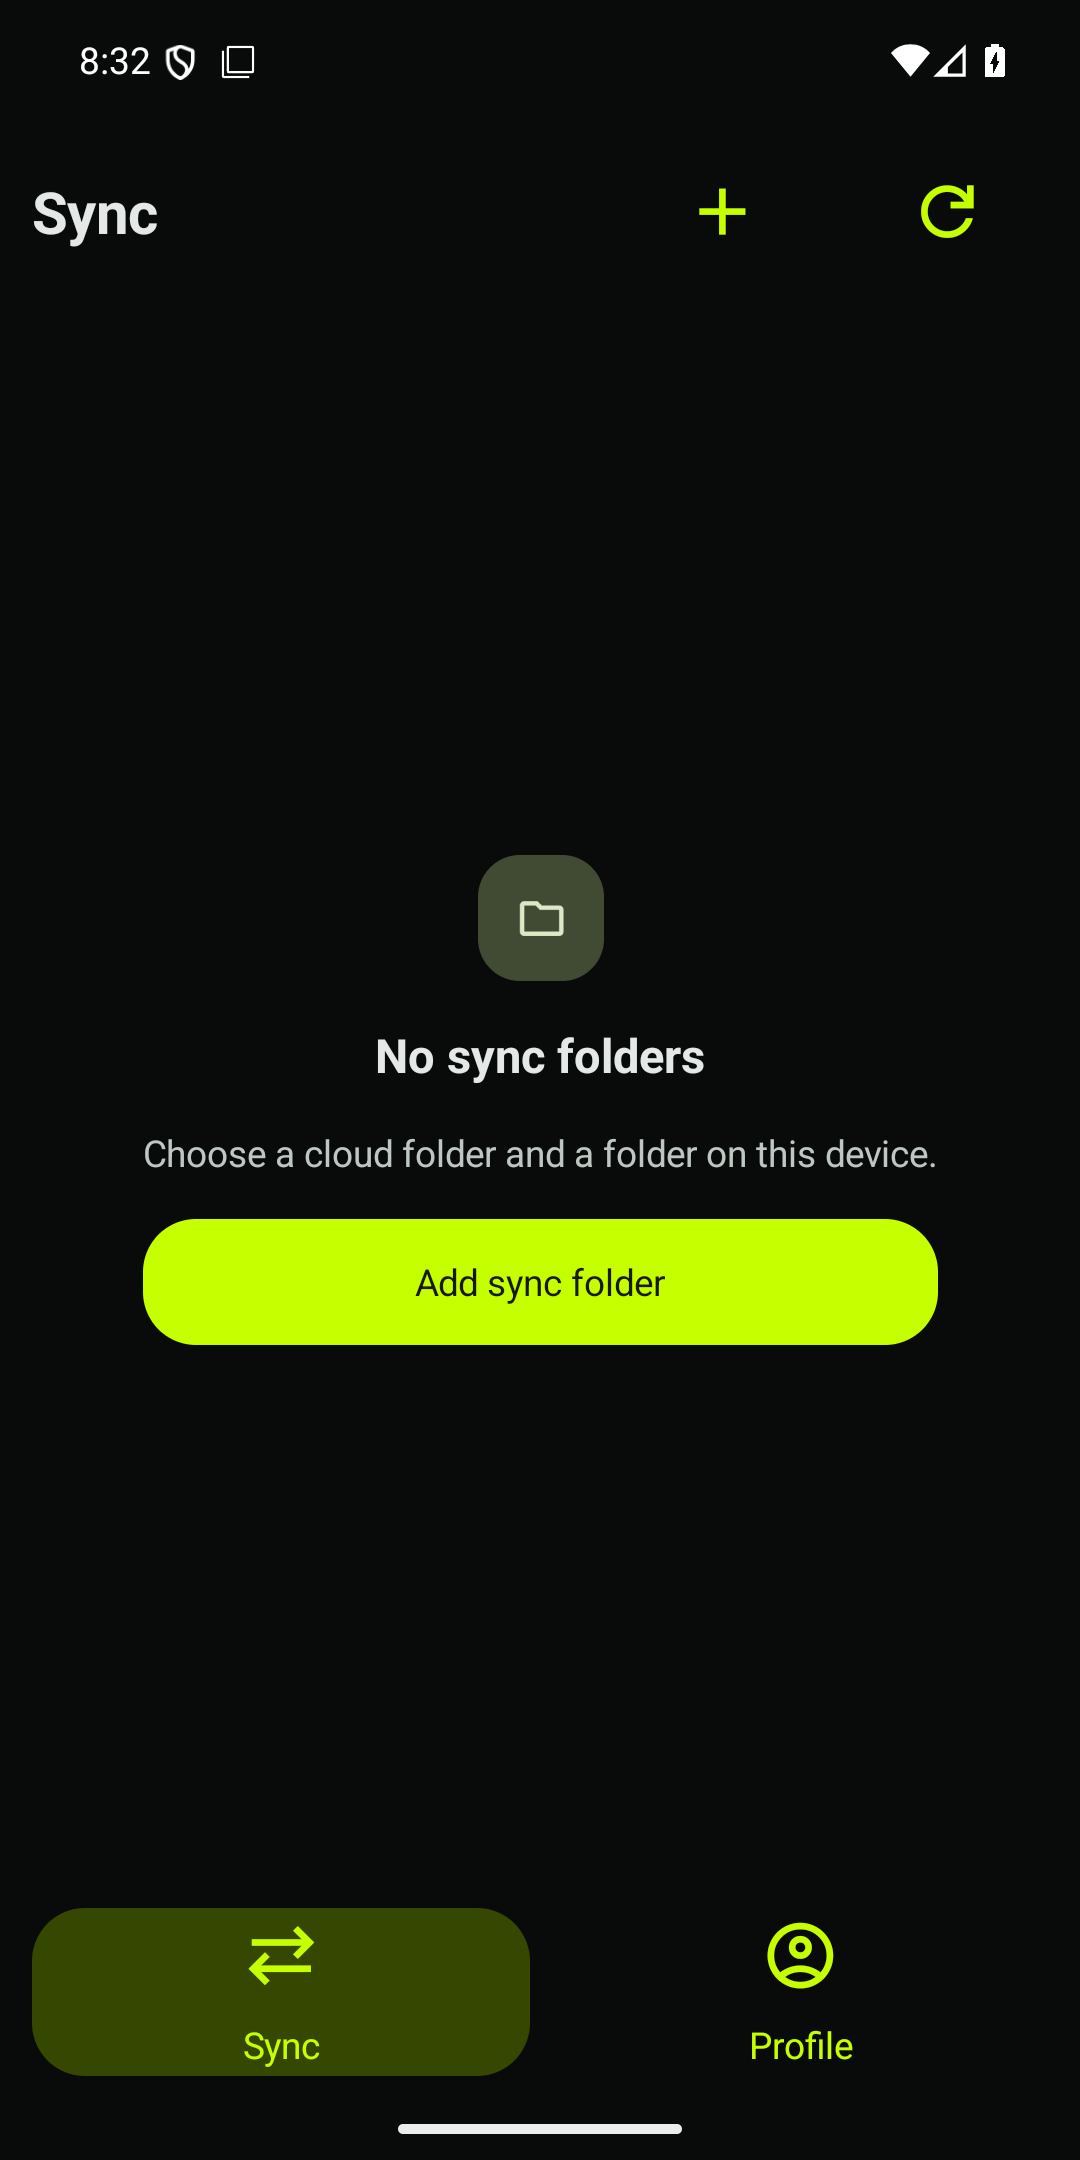
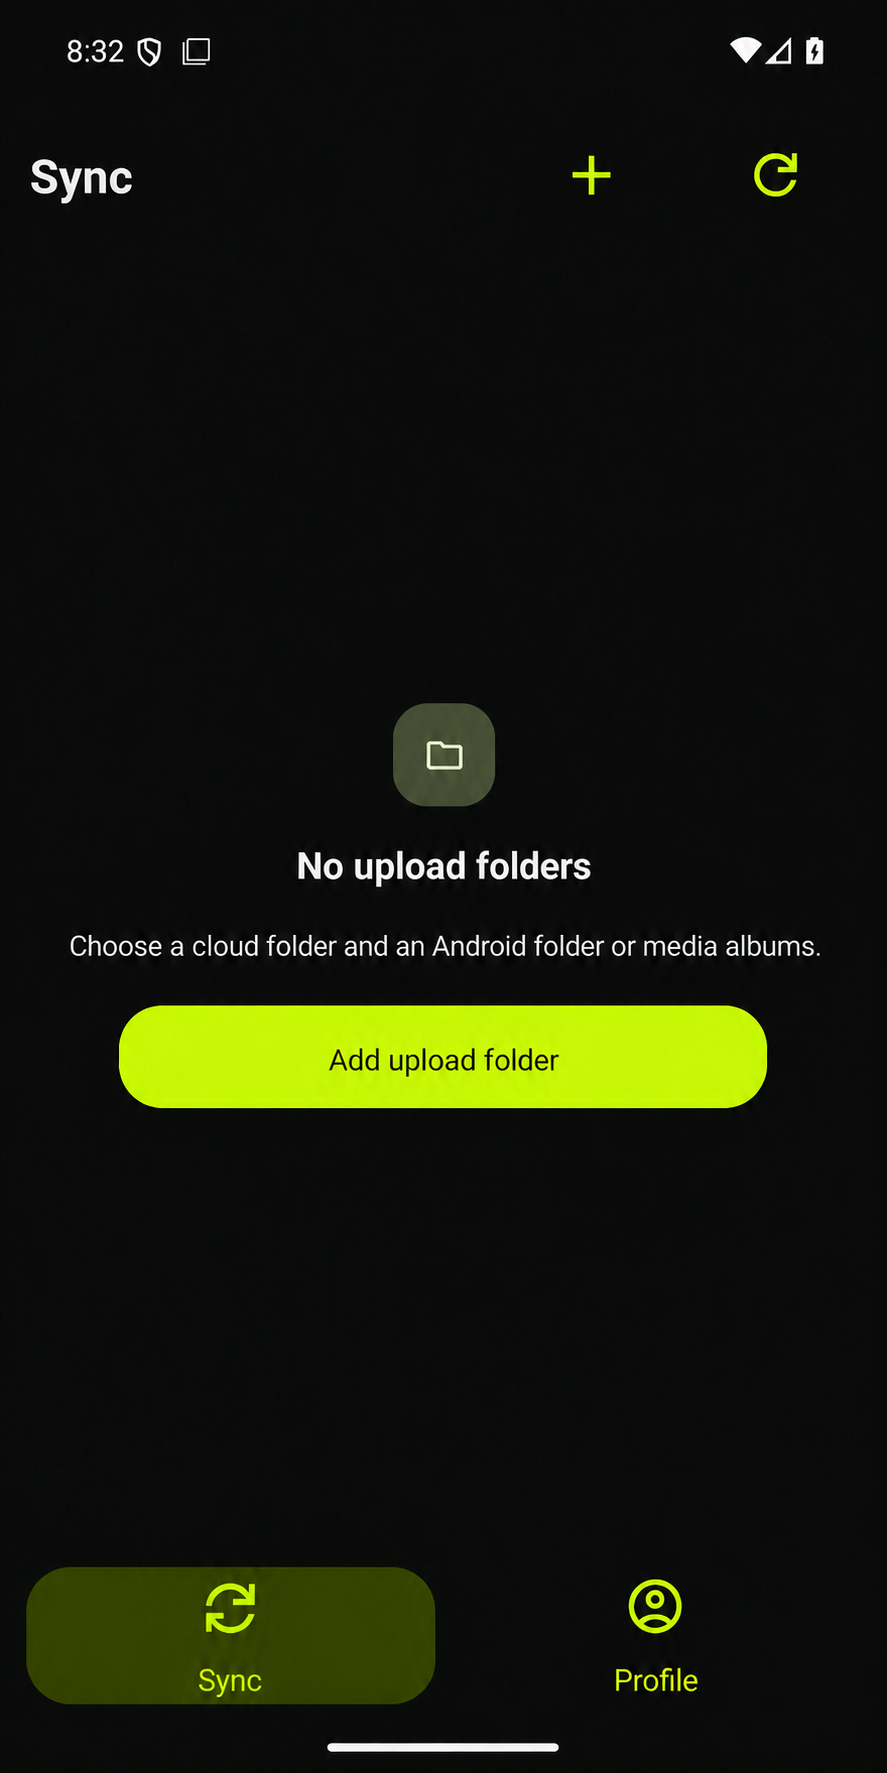
Align the Play listing with upload-only backup

diff --git a/scripts/mobile/upload-google-play-listing.py b/scripts/mobile/upload-google-play-listing.py
@@ -5,6 +5,7 @@ import argparse
 import logging
 import os
 import struct
+import json
 from pathlib import Path
 
 from google_play_listing import (
@@ -140,6 +141,8 @@ def load_store_listing(options: GooglePlayListingUploadOptions) -> StoreListing:
         icon_path=resolve_required_file(graphics_dir / "icon.png"),
         feature_graphic_path=resolve_required_file(graphics_dir / "feature-graphic.png"),
         phone_screenshot_paths=phone_screenshot_paths,
+        capabilities_path=resolve_required_file(options.listing_dir / "capabilities.json"),
+        metadata_path=resolve_required_file(graphics_dir / "metadata.json"),
     )
 
 
@@ -177,6 +180,42 @@ def validate_store_listing(listing: StoreListing) -> None:
     validate_icon_png(listing.icon_path)
     validate_feature_graphic_png(listing.feature_graphic_path)
     validate_phone_screenshots(listing.phone_screenshot_paths)
+    validate_product_capabilities(listing)
+
+
+def validate_product_capabilities(listing: StoreListing) -> None:
+    capabilities = json.loads(listing.capabilities_path.read_text(encoding="utf-8"))
+    expected = {
+        "direction": "device-to-cloud",
+        "uploadsNewFiles": True,
+        "uploadsChangedFiles": False,
+        "downloadsFiles": False,
+        "twoWaySync": False,
+        "deleteAfterConfirmedUpload": True,
+    }
+    if capabilities != expected:
+        raise GooglePlayListingUploadError("Listing capabilities do not match the upload-only product contract.")
+
+    listing_text = f"{listing.short_description}\n{listing.full_description}".casefold()
+    forbidden_claims = ("sync changes in both directions", "upload new and changed")
+    if any(claim in listing_text for claim in forbidden_claims):
+        raise GooglePlayListingUploadError("Listing text claims a capability the application does not support.")
+    if "two-way sync" in listing_text and "does not" not in listing_text:
+        raise GooglePlayListingUploadError("Listing text claims two-way sync support.")
+
+    metadata = json.loads(listing.metadata_path.read_text(encoding="utf-8"))
+    metadata_text = json.dumps(metadata, ensure_ascii=False).casefold()
+    if any(claim in metadata_text for claim in forbidden_claims):
+        raise GooglePlayListingUploadError("Listing image metadata claims an unsupported capability.")
+
+    declared_paths = tuple(
+        entry["path"] for entry in metadata.get("phoneScreenshots", [])
+    )
+    actual_paths = tuple(
+        f"phone-screenshots/{path.name}" for path in listing.phone_screenshot_paths
+    )
+    if declared_paths != actual_paths:
+        raise GooglePlayListingUploadError("Listing screenshot metadata does not match uploaded screenshots.")
 
 
 def validate_icon_png(path: Path) -> None:

diff --git a/src/Cotton.Mobile.Tests/GooglePlayListingCapabilityTests.cs b/src/Cotton.Mobile.Tests/GooglePlayListingCapabilityTests.cs
@@ -1,0 +1,45 @@
+using System.Text.Json;
+using Cotton.Mobile.Services;
+using Xunit;
+
+namespace Cotton.Mobile.Tests
+{
+    public class GooglePlayListingCapabilityTests
+    {
+        private const string ListingDirectory = "store/google-play/default-listing";
+
+        [Fact]
+        public void ListingCapabilityContractMatchesTheProductModel()
+        {
+            using JsonDocument document = JsonDocument.Parse(
+                RepositoryPath.ReadText($"{ListingDirectory}/capabilities.json"));
+            JsonElement root = document.RootElement;
+
+            Assert.Equal([CottonSyncDirection.DeviceToCloud], Enum.GetValues<CottonSyncDirection>());
+            Assert.Equal("device-to-cloud", root.GetProperty("direction").GetString());
+            Assert.True(root.GetProperty("uploadsNewFiles").GetBoolean());
+            Assert.False(root.GetProperty("uploadsChangedFiles").GetBoolean());
+            Assert.False(root.GetProperty("downloadsFiles").GetBoolean());
+            Assert.False(root.GetProperty("twoWaySync").GetBoolean());
+            Assert.True(root.GetProperty("deleteAfterConfirmedUpload").GetBoolean());
+        }
+
+        [Fact]
+        public void ListingCopyDoesNotPromiseUnsupportedTransfers()
+        {
+            string listingText = string.Join(
+                    '\n',
+                    RepositoryPath.ReadText($"{ListingDirectory}/short-description.txt"),
+                    RepositoryPath.ReadText($"{ListingDirectory}/full-description.txt"),
+                    RepositoryPath.ReadText($"{ListingDirectory}/graphics/metadata.json"))
+                .ToLowerInvariant();
+
+            Assert.DoesNotContain("sync changes in both directions", listingText, StringComparison.Ordinal);
+            Assert.DoesNotContain("upload new and changed", listingText, StringComparison.Ordinal);
+            Assert.DoesNotContain("cloud to device", listingText, StringComparison.Ordinal);
+            Assert.Contains("does not download", listingText, StringComparison.Ordinal);
+            Assert.Contains("does not", listingText, StringComparison.Ordinal);
+            Assert.Contains("two-way synchronization", listingText, StringComparison.Ordinal);
+        }
+    }
+}

diff --git a/scripts/mobile/google_play_listing.py b/scripts/mobile/google_play_listing.py
@@ -55,6 +55,8 @@ class StoreListing:
     icon_path: Path
     feature_graphic_path: Path
     phone_screenshot_paths: tuple[Path, ...]
+    capabilities_path: Path
+    metadata_path: Path
 
 
 class GooglePlayListingClient(AndroidPublisherClient):
